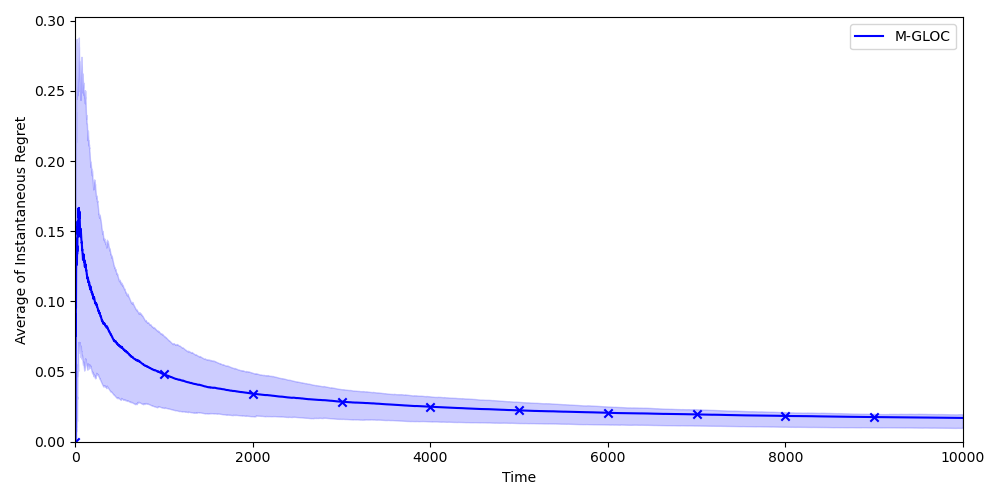
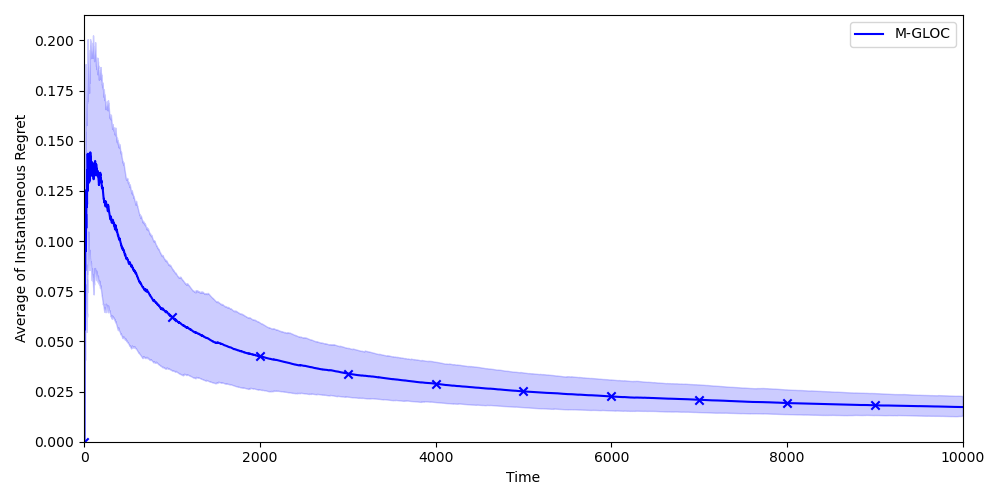
fix: Restore and correct ellipsoid radius calculation in GLOC/MGLOC
Uncommented the radius formula and added clipping for numerical stability. Updated result figures.

diff --git a/src/mgloc/algorithms/gloc.py b/src/mgloc/algorithms/gloc.py
@@ -1,3 +1,5 @@
+from math import log, sqrt
+
 import numpy as np
 from numpy import ndarray
 
@@ -66,14 +68,11 @@ class GLOC:
         return self.ons.coef
 
     def get_ellipsoid_radius(self):
-        # temp = sqrt(1 + 2 / self.kappa * self.ons.ons_bound + (4 * self.var_proxy**4) / (self.kappa**4 * self.delta**2))
-        # radius = self.lam * self.theta_max_norm**2 + 1 + 4 * self.ons.ons_bound / self.kappa
-        # radius += 8 * (self.var_proxy / self.kappa) ** 2 * log(2 / self.delta * temp)
+        temp = sqrt(1 + 2 / self.kappa * self.ons.ons_bound + (4 * self.var_proxy**4) / (self.kappa**4 * self.delta**2))
+        radius = self.lam * self.theta_max_norm**2 + 1 + 4 * self.ons.ons_bound / self.kappa
+        radius += 8 * (self.var_proxy / self.kappa) ** 2 * log(2 / self.delta * temp)
 
-        # radius -= self.z_t_l2_norm - self.coef_part2 @ self.coef_hat
-        # radius = sqrt(radius.item())
-        # radius *= 0.25
-
-        radius = 0.1
+        radius -= self.z_t_l2_norm - self.coef_part2 @ self.coef_hat
+        radius = sqrt(np.clip(radius, 1, None).item())
 
         return radius

diff --git a/src/mgloc/algorithms/mgloc.py b/src/mgloc/algorithms/mgloc.py
@@ -1,3 +1,5 @@
+from math import log, sqrt
+
 import numpy as np
 from numpy import ndarray
 from scipy.special import expit
@@ -88,11 +90,11 @@ class MGLOC:
         return
 
     def get_ellipsoid_radius(self):
-        # temp = sqrt(1 + 2 / self.kappa * self.ons.ons_bound + (4 * self.var_proxy**4) / (self.kappa**4 * self.delta**2))
-        # radius = self.lam * self.theta_max_norm**2 + 1 + 4 * self.ons.ons_bound / self.kappa
-        # radius += 8 * (self.var_proxy / self.kappa) ** 2 * log(2 / self.delta * temp)
+        temp = sqrt(1 + 2 / self.kappa * self.ons.ons_bound + (4 * self.var_proxy**4) / (self.kappa**4 * self.delta**2))
+        radius = self.lam * self.theta_max_norm**2 + 1 + 4 * self.ons.ons_bound / self.kappa
+        radius += 8 * (self.var_proxy / self.kappa) ** 2 * log(2 / self.delta * temp)
 
-        # radius -= self.z_t_l2_norm - self.coef_part2 @ self.coef_hat
-        # radius = sqrt(radius.item())
+        radius -= self.z_t_l2_norm - self.coef_part2 @ self.coef_hat
+        radius = sqrt(np.clip(radius, 1, None).item())
 
-        return 0.1
+        return radius
